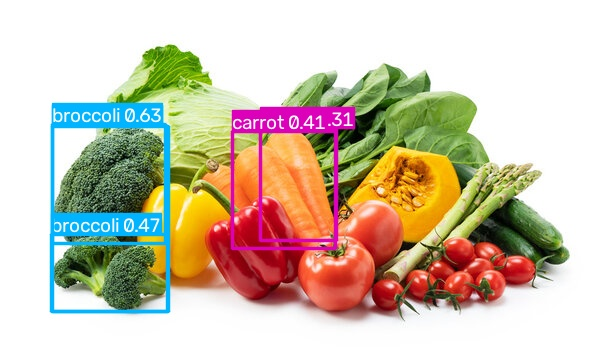
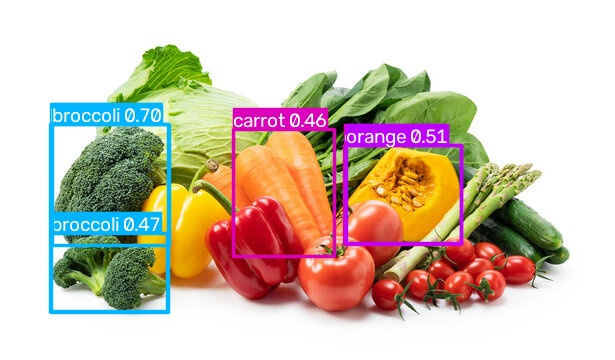
Database not currently added

Changed region(s): [[0.3707, 0.275, 0.7724, 0.7333], [0.0618, 0.275, 0.3089, 0.8861]]

diff --git a/train.py b/train.py
@@ -1,0 +1,123 @@
+import argparse
+from pathlib import Path
+
+import yaml
+from ultralytics import YOLO
+
+
+IMAGE_SUFFIXES = {
+    ".avif",
+    ".bmp",
+    ".dng",
+    ".heic",
+    ".heif",
+    ".jp2",
+    ".jpeg",
+    ".jpg",
+    ".mpo",
+    ".png",
+    ".tif",
+    ".tiff",
+    ".webp",
+}
+
+
+def main():
+    parser = argparse.ArgumentParser(
+        description="Fine-tune a YOLO detector on a labeled food dataset."
+    )
+    parser.add_argument(
+        "--data",
+        required=True,
+        help="Path to a Ultralytics dataset YAML file.",
+    )
+    parser.add_argument(
+        "--model",
+        default="yolo11s.pt",
+        help="Pretrained model or weights path (default: yolo11s.pt).",
+    )
+    parser.add_argument("--epochs", type=int, default=100)
+    parser.add_argument("--imgsz", type=int, default=768)
+    parser.add_argument("--batch", type=int, default=8)
+    parser.add_argument("--name", default="food")
+    args = parser.parse_args()
+
+    data_path = Path(args.data).resolve()
+    if not data_path.is_file():
+        parser.error(f"Dataset YAML file not found: {data_path}")
+    if args.epochs < 1 or args.imgsz < 1 or args.batch < 1:
+        parser.error("--epochs, --imgsz, and --batch must be positive integers.")
+
+    with data_path.open(encoding="utf-8") as dataset_file:
+        dataset = yaml.safe_load(dataset_file)
+    dataset_root = Path(dataset.get("path", data_path.parent))
+    if not dataset_root.is_absolute():
+            dataset_root = data_path.parent / dataset_root
+    for split in ("train", "val"):
+        split_path = Path(dataset[split])
+        if not split_path.is_absolute():
+            split_path = dataset_root / split_path
+        images = (
+            [
+                image
+                for image in split_path.rglob("*")
+                if image.is_file() and image.suffix.lower() in IMAGE_SUFFIXES
+            ]
+            if split_path.is_dir()
+            else []
+        )
+        if not images:
+            parser.error(
+                f"No images found for the {split} split in {split_path}. "
+                "Add separately annotated images to this split before training."
+            )
+        label_root = dataset_root / "labels" / split
+        missing_labels = [
+            image.relative_to(split_path).with_suffix(".txt")
+            for image in images
+            if not (label_root / image.relative_to(split_path).with_suffix(".txt")).is_file()
+        ]
+        if missing_labels:
+            parser.error(
+                f"{len(missing_labels)} {split} image(s) have no matching YOLO "
+                f"label file under {label_root}; first missing label: "
+                f"{missing_labels[0]}. Use an empty label file for images "
+                "that contain none of the target foods."
+            )
+        for image in images:
+            label_path = label_root / image.relative_to(split_path).with_suffix(".txt")
+            for line_no, line in enumerate(label_path.read_text(encoding="utf-8").splitlines(), 1):
+                fields = line.split()
+                if not fields:
+                    continue
+                if len(fields) != 5:
+                    parser.error(
+                        f"Invalid detection label in {label_path}:{line_no}; "
+                        "each line must contain class_id and four box values."
+                    )
+                try:
+                    class_id = int(fields[0])
+                    coords = [float(value) for value in fields[1:]]
+                except ValueError:
+                    parser.error(f"Non-numeric YOLO label in {label_path}:{line_no}.")
+                if not 0 <= class_id < len(dataset["names"]) or not all(
+                    0 <= value <= 1 for value in coords
+                ) or coords[2] <= 0 or coords[3] <= 0:
+                    parser.error(
+                        f"Out-of-range class or box value in {label_path}:{line_no}."
+                    )
+
+    model = YOLO(args.model)
+    model.train(
+        data=str(data_path),
+        epochs=args.epochs,
+        imgsz=args.imgsz,
+        batch=args.batch,
+        project="runs",
+        name=args.name,
+        exist_ok=True,
+    )
+
+
+if __name__ == "__main__":
+    main()

diff --git a/detect.py b/detect.py
@@ -1,0 +1,51 @@
+import argparse
+from pathlib import Path
+
+from ultralytics import YOLO
+
+
+def main():
+    parser = argparse.ArgumentParser(
+        description="Detect food items in an image with a YOLO model."
+    )
+    parser.add_argument("image", help="Path to an image to analyze.")
+    parser.add_argument(
+        "--model",
+        default="yolo11s.pt",
+        help="Model weights (default: pretrained yolo11s.pt).",
+    )
+    parser.add_argument("--imgsz", type=int, default=768)
+    parser.add_argument("--conf", type=float, default=0.25)
+    parser.add_argument("--output", default="detected.jpg")
+    args = parser.parse_args()
+
+    image_path = Path(args.image)
+    if not image_path.is_file():
+        parser.error(f"Image file not found: {image_path}")
+    if args.imgsz < 1:
+        parser.error("--imgsz must be a positive integer.")
+    if not 0 <= args.conf <= 1:
+        parser.error("--conf must be between 0 and 1.")
+
+    model = YOLO(args.model)
+    results = model.predict(
+        source=str(image_path),
+        imgsz=args.imgsz,
+        conf=args.conf,
+        verbose=False,
+    )
+    result = results[0]
+    result.save(filename=args.output)
+
+    if result.boxes is None or len(result.boxes) == 0:
+        print("No objects detected.")
+    else:
+        for box in result.boxes:
+            class_id = int(box.cls[0])
+            confidence = float(box.conf[0])
+            print(f"Detected: {result.names[class_id]} ({confidence:.2%})")
+    print(f"Saved annotated image to {args.output}")
+
+
+if __name__ == "__main__":
+    main()

diff --git a/README.md b/README.md
@@ -1,2 +1,73 @@
 # CookingGenius
-DubHacks 2026 project:
+DubHacks 2026 project.
+
+## Food object detection
+
+The demo detector uses a general-purpose pretrained YOLO model. Fine-tuning it
+on labeled images of the foods you want to recognize is necessary for a
+food-specific detector.
+
+### Prepare a dataset
+
+The Roboflow export contains seven annotated images, with one example each of
+asparagus, bell pepper, broccoli, cabbage, carrot, squash, and tomato. Their
+labels are prepared for detection under `datasets/food/`; polygon annotations
+were converted to bounding boxes, and duplicate box/polygon annotations were
+deduplicated. The original unlabeled photos are preserved under
+`datasets/food/unlabeled/images/` and are not included in training.
+
+`food.yaml` maps the current classes in this order:
+
+`0 asparagus`, `1 bell_pepper`, `2 broccoli`, `3 cabbage`, `4 carrot`,
+`5 squash`, `6 tomato`.
+
+There is no spinach example in the supplied annotation export, so spinach is
+not included in the active class list. Add labeled spinach images and a class
+entry if you want to train for spinach.
+
+### Complete the dataset
+
+The supplied export has no validation images. Add separate, annotated photos
+to the validation folders before training:
+
+```text
+datasets/food/
+  images/
+    train/
+    val/
+  labels/
+    train/
+    val/
+```
+
+For each image, add a same-named `.txt` label file to the matching labels
+folder. Each line is
+`class_id x_center y_center width height`, with coordinates normalized to
+the range 0–1. Images with no target food should have an empty label file.
+Keep images of the same scene or capture session in only one split to avoid
+near-duplicate leakage.
+The current export has only one training image per class, so it is a format
+example rather than enough data for a reliable model. Add many varied training
+photos and separate validation photos for each class before training.
+
+### Train and run
+
+With the project virtual environment active, fine-tune a pretrained model:
+
+```powershell
+python train.py --data food.yaml --epochs 100 --imgsz 768
+```
+
+Training automatically evaluates against the validation split. The best
+weights are saved to `runs/detect/food/weights/best.pt`. Run detection with
+those weights:
+
+```powershell
+python detect.py vegetables.jpg --model runs/detect/food/weights/best.pt --imgsz 768
+```
+
+For a pretrained baseline before training, omit `--model` (it defaults to
+`yolo11s.pt`). `--conf` adjusts the detection confidence threshold; it changes
+the false-positive/missed-detection tradeoff, not the model's underlying
+accuracy. Compare models using validation results and images representative
+of the app's real camera, lighting, and food presentations.
